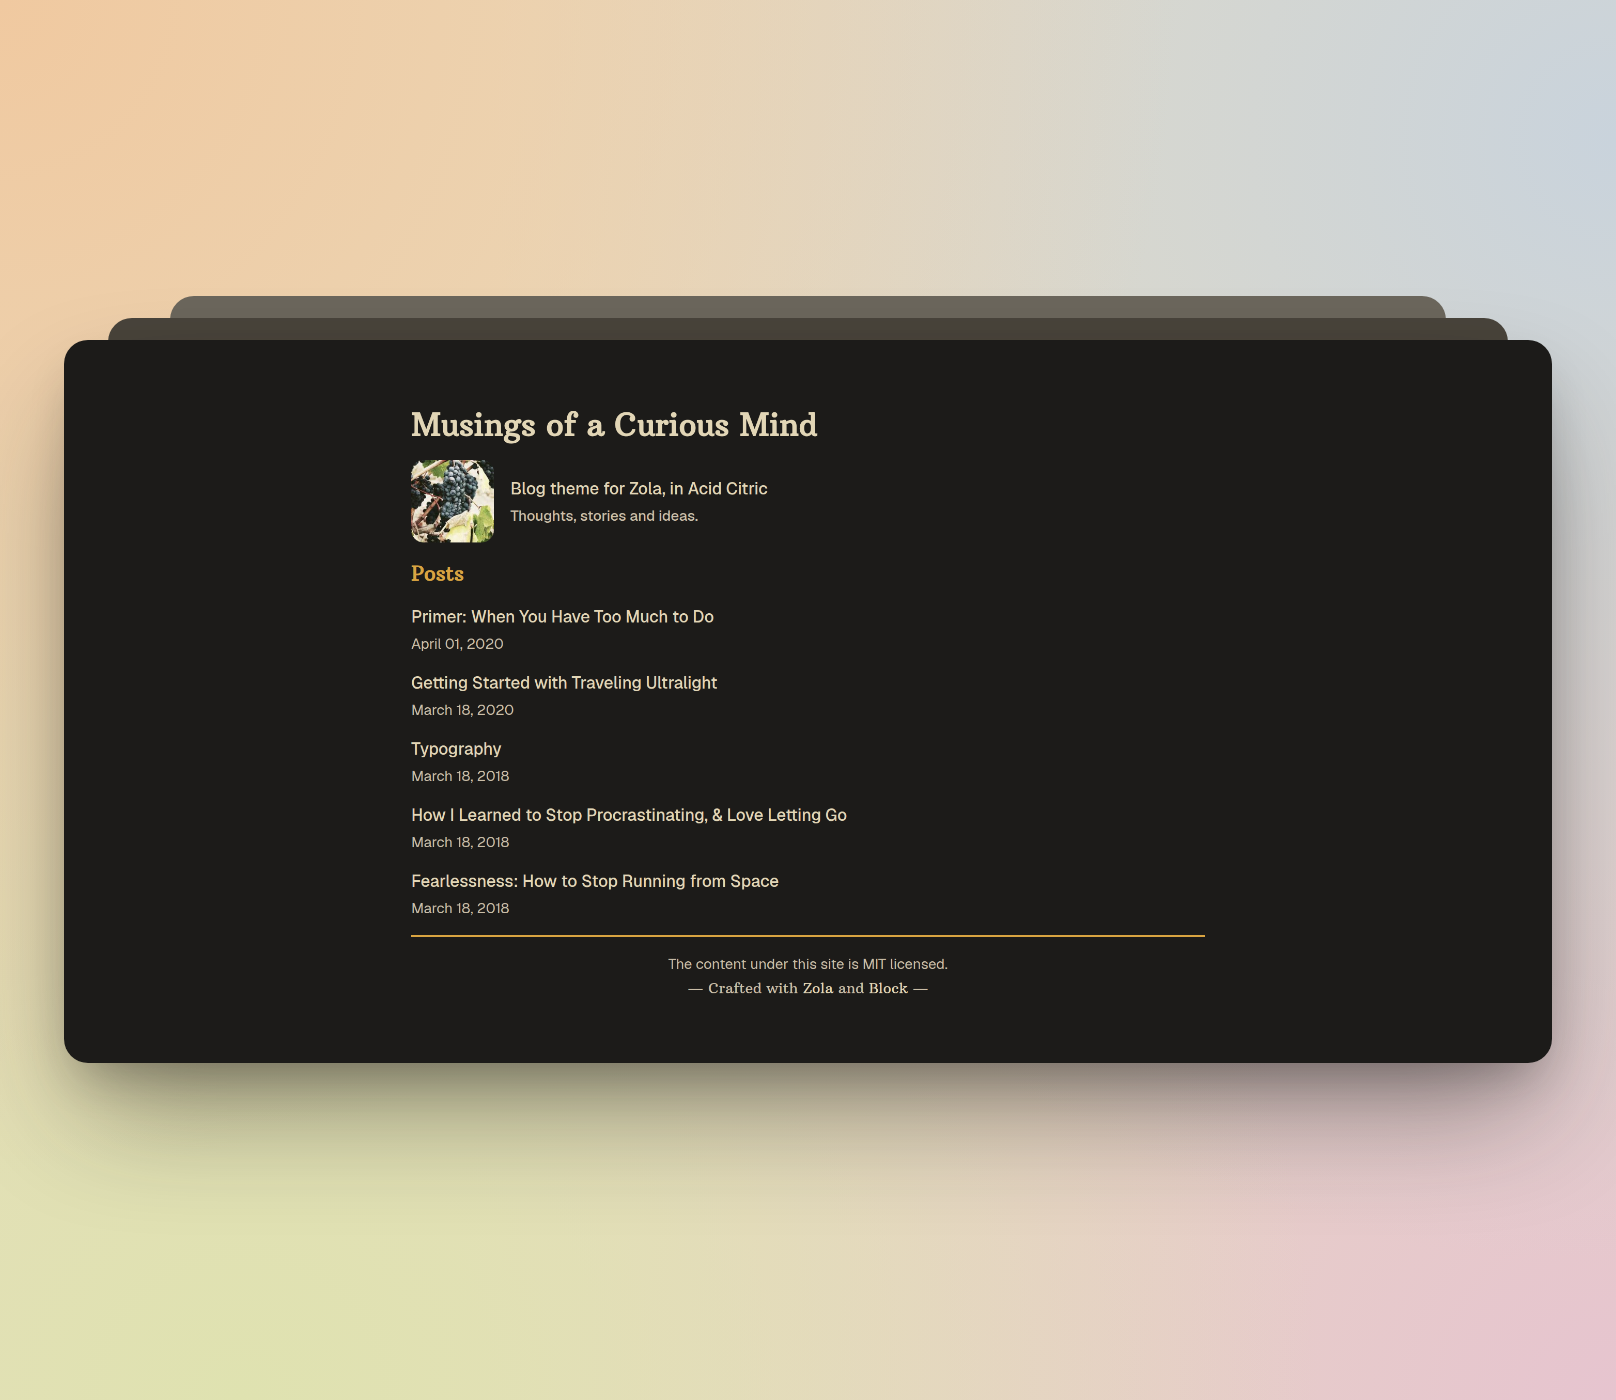
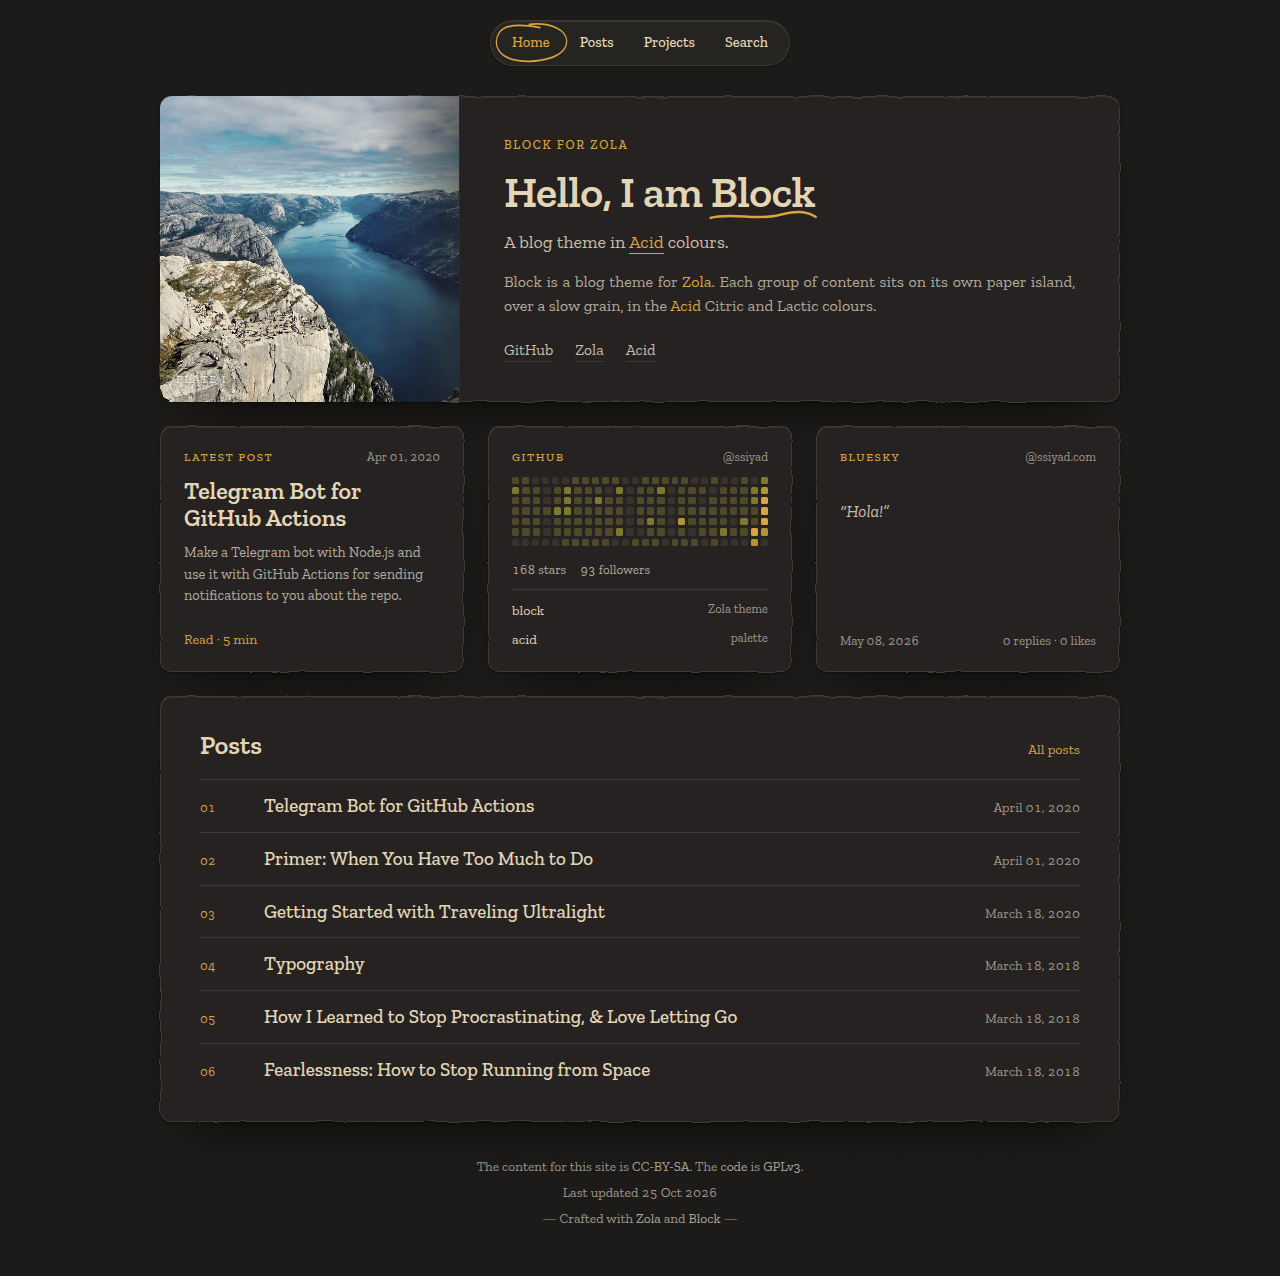
docs: readme and screenshot for the redesign

diff --git a/README.md b/README.md
@@ -1,14 +1,18 @@
 # Block
 
 Blog focused theme for [Zola](https://www.getzola.org/), powered by
-[TailwindCSS](https://tailwindcss.com/), in the
-[Acid](https://github.com/acid-theme/acid) Citric colors.
+[TailwindCSS](https://tailwindcss.com/). Each group of content sits on a paper
+island over a slow grain, in the [Acid](https://github.com/acid-theme/acid)
+Citric (dark) and Lactic (light) colors. The flavor follows the system.
+
+Motion (grain, rise-in, hand-drawn marks) stops when the system asks for
+reduced motion.
 
 Block needs Zola 0.23 or later.
 
 Demo: https://block-zola.netlify.app/
 
-![sreenshot](./screenshot.png)
+![screenshot](./screenshot.png)
 
 ## Setup
 
@@ -35,21 +39,85 @@ In your zola site directory
   zola build
   ```
 
-## Variables
+## Configuration
 
-You can use the following variables in your `config.toml`.
+Set these in your `config.toml`. Every key is optional. See
+[theme.toml](./theme.toml) for the defaults.
 
 ```toml
+generate_feeds = true # shows the RSS button on the posts page
+
+[extra]
+flavor = "auto"                    # auto, citric (dark) or lactic (light)
+posts_section = "posts/_index.md"  # listed on home, search and 404
+home_posts = 7
+menu = [
+  { name = "Home", url = "/" },
+  { name = "Posts", url = "/posts/" },
+  { name = "Projects", url = "/projects/" },
+  { name = "Search", url = "/search/" },
+]
+
 [extra.intro]
-heading = "Blog theme for Zola, in Acid Citric"
-subheading = "Thoughts, stories and ideas."
-avatar_url = "https://picsum.photos/200"
+kicker = "Sabu Siyad's blog"
+greeting = "Hello, I am"
+name = "Sabu Siyad"
+role = "Security Engineer at [Frappe](https://frappe.io)" # inline markdown
+avatar_url = "https://example.com/me.jpg" # empty hides the photo plate
+plate_label = "Plate I"
+links = [{ name = "GitHub", url = "https://github.com/ssiyad" }]
+
+[extra.github]   # empty username hides the card
+username = "ssiyad"
+repos = [{ name = "block", note = "Zola theme" }]
+
+[extra.bluesky]  # empty handle hides the card
+handle = "ssiyad.com"
 
 [extra.footer]
-license_text = ""
+license_text = "The content for this site is CC-BY-SA." # inline markdown
+source_url = "https://github.com/ssiyad/block"
 ```
 
-Check [theme.toml](./theme.toml) for more info.
+The text of `content/_index.md` is the bio on the home page.
+
+### Build-time data
+
+The GitHub and Bluesky cards and the Projects page fetch public APIs when
+Zola builds the site. A failed request hides the data, not the build.
+
+| Variable                    | Effect                                                        |
+| --------------------------- | ------------------------------------------------------------- |
+| `GITHUB_TOKEN`              | Lifts the GitHub API limit of 60 requests an hour.            |
+| `GITHUB_SHA` / `COMMIT_REF` | Shows the short commit in the footer, linked to `source_url`. |
+
+GitHub Actions sets `GITHUB_SHA` and Netlify sets `COMMIT_REF`.
+
+## Pages
+
+- **Posts**: the section in `posts_section`. Set `sort_by = "date"` and
+  `paginate_by` in its `_index.md`. Posts are grouped by year.
+- **Post**: a page with its table of contents in the margin. Add
+  `extra.mark = "word"` to its front matter to circle that word of the title.
+- **Projects**: a page with `template = "projects.html"`.
+
+  ```toml
+  +++
+  title = "Projects"
+  template = "projects.html"
+
+  [extra]
+  all_url = "https://github.com/ssiyad?tab=repositories"
+  pinned = ["ssiyad/block"] # stats come from the GitHub API
+  curated = [
+    { name = "Block", description = "Zola theme", role = "Author", years = "2025 →", url = "https://github.com/ssiyad/block" },
+  ]
+  +++
+  ```
+
+- **Search**: a page with `template = "search.html"`. It filters the posts
+  in the browser and needs no search index.
+- **404**: built in.
 
 ## Syntax highlighting
 
@@ -57,7 +125,8 @@ Zola needs a highlighting theme. Add one to your `config.toml`:
 
 ```toml
 [markdown.highlighting]
-theme = "gruvbox-dark-medium"
+light_theme = "gruvbox-light-medium"
+dark_theme = "gruvbox-dark-medium"
 ```
 
 Block sets the code block background, so only the text colors come from this
@@ -90,35 +159,9 @@ This was a shortcode before Zola 0.23. Change
 
 You can override individual blocks by following
 [this](https://www.getzola.org/documentation/themes/extending-a-theme/#overriding-a-block).
-
-Example: `templates/base_layout.html`
-
-```html
-{% extends "block/templates/base_layout.html" %} {% block license_text %}
-<div>
-  The content for this site is
-  <a
-    href="https://creativecommons.org/licenses/by-sa/2.0/"
-    target="_blank"
-    class="font-medium"
-    >CC-BY-SA</a
-  >. The
-  <a
-    href="https://github.com/ssiyad/ssiyad.github.io"
-    target="_blank"
-    class="font-medium"
-    >code for this site</a
-  >
-  is
-  <a
-    href="https://www.gnu.org/licenses/gpl-3.0.en.html"
-    target="_blank"
-    class="font-medium"
-    >GPLv3</a
-  >.
-</div>
-{% endblock %}
-```
+`base.html` has the blocks `title`, `description`, `main_class` and `main`.
+To change a part of the page, copy its file from `templates/partials/` into
+your site's `templates/partials/`.
 
 ## Self Promotion
 
